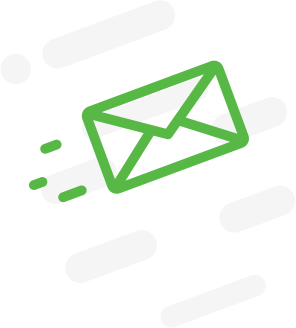
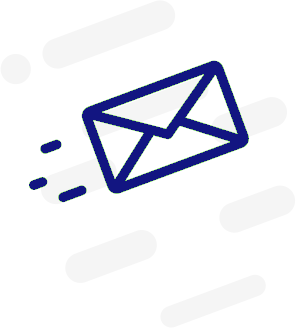
Email api working

diff --git a/public/user.html b/public/user.html
@@ -12,11 +12,43 @@
         <link href="https://fonts.googleapis.com/css?family=Montserrat&display=swap" rel="stylesheet">
         <link rel="stylesheet" href="CSS/user.css">
     </head>
-    <body class="profile-page">
-        <div class="page-header header-filter" data-parallax="true" style="background-image:url('http://wallpapere.org/wp-content/uploads/2012/02/black-and-white-city-night.png');"></div>
-        
-        <!-- User listings displayed here -->
-        <div class="main main-raised">
+    <body class="profile-page" style="background-image:url('assets/ManOfSteel.jpg');">
+        <header id="main">
+            <nav class="navbar navbar-expand-sm  navbar-light" style="color: white;">
+                <h2>MyREALTOR</h2>
+                <button class="navbar-toggler" type="button"
+                    style="color: white;" onclick="opennav()">
+                    <span>
+                        <i class="fa fa-bars" style="color:#fff; font-size: 25px; "></i>
+                    </span>
+                </button>
+                <div class="collapse navbar-collapse" id="navbar1">
+                    <ul class="nav navbar-nav">
+                        <li class="nav-item">
+                            <a class="nav-link" href="#" style="color: white;">Home</a>
+                        </li>
+                        <li class="nav-item">
+                            <a class="nav-link" href="#" style="color: white;">Search</a>
+                        </li>
+                        <li class="nav-item">
+                            <a class="nav-link" href="#" style="color: white;">View-List</a>
+                        </li>
+                        <li class="nav-item">
+                            <a class="nav-link" href="login.html" style="color: white;">Login</a>
+                        </li>
+                    </ul>
+                </div>
+            </nav>
+        </header>
+        <div class="collapse" id="mySidebar">
+        </div>
+
+        <!-- Page Header -->
+        <div class="page-header header-filter" data-parallax="true"></div>
+
+        <!-- User profile -->
+        <div class="main-body main-raised">
+            <!-- User pofile info -->
             <div class="profile-content">
                 <div class="container">
                     <div class="row">
@@ -40,13 +72,13 @@
                             <div class="profile-tabs">
                               <ul class="nav nav-pills nav-pills-icons justify-content-center" role="tablist">
                                 <li class="nav-item">
-                                    <a class="nav-link active" href="#studio" role="tab" data-toggle="tab">
+                                    <a id="listings-btn" class="nav-link active" href="#studio" role="tab" data-toggle="tab">
                                       <i class="fa fa-home"></i>
                                       Listings
                                     </a>
                                 </li>
-                                <li class="nav-item">
-                                    <a class="nav-link" href="#favorite" role="tab" data-toggle="tab">
+                                <li class="nav-item" id="contact">
+                                    <a id='contact-btn' class="nav-link" role="tab" data-toggle="tab">
                                       <i class="fa fa-envelope-o"></i>
                                         Contact
                                     </a>
@@ -67,6 +99,7 @@
                                 <a style="text-align:left;"><i class="fa fa-bed"></i>: 2</a>
                                 <a style="text-align:left;"><i class="fa fa-bath"></i>: 2</a>
                                 <a style="text-align:left;"><i class="fa fa-map-marker"></i>: Toronto</a>
+                                <a style="text-align:left;"><i class="fa fa-usd"></i>: 350,000</a>
                                 <br>
                                 <p class="card-text mb-auto">Beautiful 2 bedroom, 2 bathroom apt right in the heart of Toronto.</p>
                                 <br>
@@ -85,6 +118,7 @@
                                   <a style="text-align:left;"><i class="fa fa-bed"></i>: 2</a>
                                   <a style="text-align:left;"><i class="fa fa-bath"></i>: 2</a>
                                   <a style="text-align:left;"><i class="fa fa-map-marker"></i>: Toronto</a>
+                                  <a style="text-align:left;"><i class="fa fa-usd"></i>: 450,000</a>
                                   <br>
                                   <p class="card-text mb-auto">Beautiful 2 bedroom, 2 bathroom apt right in the heart of Toronto.</p>
                                   <br>
@@ -105,6 +139,7 @@
                                     <a style="text-align:left;"><i class="fa fa-bed"></i>: 2</a>
                                     <a style="text-align:left;"><i class="fa fa-bath"></i>: 2</a>
                                     <a style="text-align:left;"><i class="fa fa-map-marker"></i>: Toronto</a>
+                                    <a style="text-align:left;"><i class="fa fa-usd"></i>: 1,150,000</a>
                                     <br>
                                     <p class="card-text mb-auto">Beautiful 2 bedroom, 2 bathroom apt right in the heart of Toronto.</p>
                                     <br>
@@ -123,6 +158,7 @@
                                       <a style="text-align:left;"><i class="fa fa-bed"></i>: 2</a>
                                       <a style="text-align:left;"><i class="fa fa-bath"></i>: 2</a>
                                       <a style="text-align:left;"><i class="fa fa-map-marker"></i>: Toronto</a>
+                                      <a style="text-align:left;"><i class="fa fa-usd"></i>: 750,000</a>
                                       <br>
                                       <p class="card-text mb-auto">Beautiful 2 bedroom, 2 bathroom apt right in the heart of Toronto.</p>
                                       <br>
@@ -144,7 +180,7 @@
         <br><br><br><br><br>
 
         <!-- Contact user form  -->
-        <div class="main main-raised">
+        <div class="main-body main-raised" id="contact-form">
             <div class="profile-content">
                 <div class="container">
                     <div class="row mb-2">
@@ -157,21 +193,21 @@
                         <div class="col-md-6 col-12">
                             <form class="contact1-form validate-form">
                                 <br><br>
-                                <span class="contact1-form-title">Get in touch</span>
+                                <h3 class="contact1-form-title">Get in touch</h3>
                                 <div class="wrap-input1 validate-input" data-validate="Name is required">
-                                    <input class="input1" type="text" name="name" placeholder="Name">
+                                    <input class="input1" type="text" name="name" placeholder="Name" id="senderName">
                                     <span class="shadow-input1"></span>
                                 </div>
                                 <div class="wrap-input1 validate-input" data-validate="Valid email is required: ex@abc.xyz">
-                                    <input class="input1" type="text" name="email" placeholder="Email">
+                                    <input class="input1" type="text" name="email" placeholder="Email" id="senderEmail">
                                     <span class="shadow-input1"></span>
                                 </div>
                                 <div class="wrap-input1 validate-input" data-validate="Subject is required">
-                                    <input class="input1" type="text" name="subject" placeholder="Subject">
+                                    <input class="input1" type="text" name="subject" placeholder="Subject" id="emailSubject">
                                     <span class="shadow-input1"></span>
                                 </div>
                                 <div class="wrap-input1 validate-input" data-validate="Message is required">
-                                    <textarea class="input1" name="message" placeholder="Message"></textarea>
+                                    <textarea class="input1" name="message" placeholder="Message" id="emailBody"></textarea>
                                     <span class="shadow-input1"></span>
                                 </div>
                                 <div class="container-contact1-form-btn">
@@ -186,6 +222,7 @@
             </div>  
         </div>
 
+        <br><br><br>
 
         
       
@@ -194,6 +231,6 @@
         <script src="https://maxcdn.bootstrapcdn.com/bootstrap/4.0.0/js/bootstrap.min.js" integrity="sha384-JZR6Spejh4U02d8jOt6vLEHfe/JQGiRRSQQxSfFWpi1MquVdAyjUar5+76PVCmYl" crossorigin="anonymous"></script>    
         <script src="https://unpkg.com/popper.js@1.12.6/dist/umd/popper.js" integrity="sha384-fA23ZRQ3G/J53mElWqVJEGJzU0sTs+SvzG8fXVWP+kJQ1lwFAOkcUOysnlKJC33U" crossorigin="anonymous"></script>
         <script src="https://unpkg.com/bootstrap-material-design@4.1.1/dist/js/bootstrap-material-design.js" integrity="sha384-CauSuKpEqAFajSpkdjv3z9t8E7RlpJ1UP0lKM/+NdtSarroVKu069AlsRPKkFBz9" crossorigin="anonymous"></script>
-        <script src="CSS/user.js" ></script>
+        <script src="JS/user.js" ></script>
 </body>
 </html>

diff --git a/public/CSS/user.css b/public/CSS/user.css
@@ -1,12 +1,19 @@
 html *{
-    -webkit-font-smoothing: antialiased;
+    /* -webkit-font-smoothing: antialiased; */
     font-family: 'Montserrat', sans-serif;
+}
+
+body{
+    height: 100vh;
+    background-size: cover;
+    margin: 0;
+    padding: 0;
+    border: 0;
 }
 
 .h6, h6 {
     font-size: .75rem !important;
     font-weight: 500;
-    /* font-family: Roboto,Helvetica,Arial,sans-serif; */
     line-height: 1.5em;
     text-transform: uppercase;
 }
@@ -28,7 +35,7 @@ a .material-icons {
 }
 
 .profile-page .page-header {
-    height: 380px;
+    height: 250px;
     background-position:center;
 }
 
@@ -53,9 +60,9 @@ a .material-icons {
     content: "";
 }
 
-.header-filter::before {
+/* .header-filter::before {
     background: rgba(0,0,0,.5);
-}
+} */
 
 .main-raised {
     margin: -60px 30px 0;
@@ -63,7 +70,7 @@ a .material-icons {
     box-shadow: 0 16px 24px 2px rgba(0,0,0,.14), 0 6px 30px 5px rgba(0,0,0,.12), 0 8px 10px -5px rgba(0,0,0,.2);
 }
 
-.main {
+.main-body {
     background: #FFF;
     position: relative;
     z-index: 3;
@@ -140,8 +147,8 @@ p {
 
 .nav-pills .nav-item .nav-link.active {
     color: #fff;
-    background-color: #9c27b0;
-    box-shadow: 0 5px 20px 0 rgba(0,0,0,.2), 0 13px 24px -11px rgba(156,39,176,.6);
+    background-color: #08088A;
+    box-shadow: 0 5px 20px 0 rgba(0,0,0,.2), 0 13px 24px -11px ;
 }
 
 .nav-pills .nav-item .nav-link {
@@ -330,7 +337,12 @@ img.rounded {
   
   
   /*//////////////////////////////////////////////////////////////////
-  [ Contact 1 ]*/
+  [ Contact Form ]*/
+
+  #contact-form{
+    padding-bottom: 5%;
+    scroll-padding-top: 5%;
+  }
   
   .contact1 {
     width: 100%;
@@ -394,9 +406,11 @@ img.rounded {
     display: block;
     font-size: 24px;
     color: #333333;
-    line-height: 1.2;
     text-align: center;
     padding-bottom: 44px;
+    font-weight: 500;
+    line-height: 1.5em;
+    text-transform: uppercase;
   }
   
   input.input1 {
@@ -481,7 +495,7 @@ img.rounded {
     min-width: 193px;
     height: 50px;
     border-radius: 25px;
-    background: #57b846;
+    background: #08088A;
     font-family: Montserrat-Bold;
     font-size: 15px;
     line-height: 1.5;

diff --git a/public/JS/user.js b/public/JS/user.js
@@ -1,3 +1,50 @@
+
+function scrollToContactForm(){
+    $('html,body').animate({
+        scrollTop: $("#contact-form").offset().top- $(window).height()/7},
+        'slow');
+}
+function scrollToTop(){
+    $('html,body').animate({
+        scrollTop: $("#main").offset().top},
+        'slow');
+}
+
+async function sendEmail(){
+    event.preventDefault();
+
+    const msg = {
+        to: $("#senderEmail").val(), //Will be changed to user email upon database integration
+        from: $("#senderEmail").val(),
+        subject: $("#emailSubject").val(),
+        text: $("#emailBody").val(),
+        html: $("#emailBody").val(),
+      };
+
+      console.log(`Sending email to: ${msg.to}`)
+    
+    const apiResult = await $.post( '/api/email', msg );
+    
+    if( apiResult.message ){
+        console.log( `Successfully sent email!`);
+    
+        // clear form.
+        $('#senderName').val( "" );
+        $('#senderEmail').val( "" );
+        $('#emailSubject').val( "" );
+        $('#emailBody').val( "" );
+    
+    }
+}
+
+$(document).ready( function(){
+
+    $("#contact").on('click', scrollToContactForm);
+    $(".contact1-form-btn").on('click', scrollToTop);
+    $(".contact1-form-btn").on('click', sendEmail);
+
+});
+
 (function ($) {
     "use strict";
 
@@ -59,3 +106,4 @@
     
 
 })(jQuery);
+

diff --git a/server.js b/server.js
@@ -1,0 +1,25 @@
+const sgMail = require('@sendgrid/mail');
+const express = require( "express" );
+const bodyParser = require('body-parser')
+
+const PORT = process.env.PORT || 8080;
+const app = express();
+
+// to serve static content from the 'html' directory
+app.use(express.static('public'));
+app.use(bodyParser.urlencoded({ extended: false }));
+sgMail.setApiKey(process.env.SENDGRID_API_KEY);
+
+app.post( '/api/email', function( req, res ){
+    console.log( `<< form data received: `, req.body );
+    console.log(`sending message to ${req.body.to}`)
+
+    sgMail.send(req.body);
+    // respond with something
+    res.send( { message: `sent email to: ${req.body.to}` } );
+})
+
+
+app.listen( PORT, function(){
+    console.log( `RUNNING, http://localhost:${PORT}` );
+});
